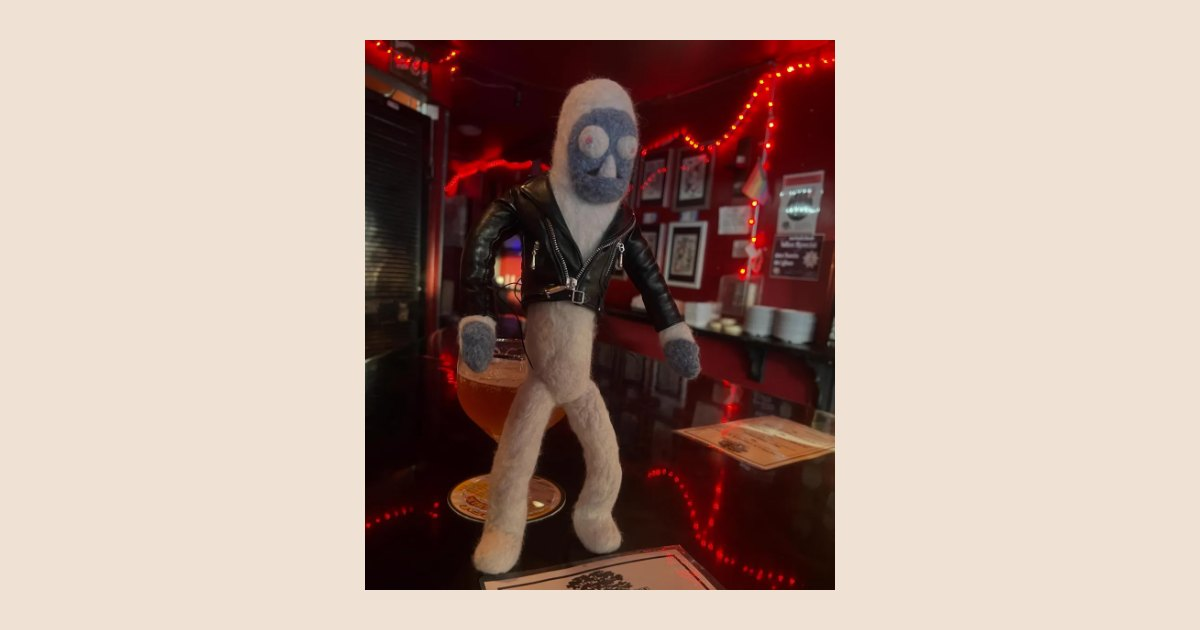
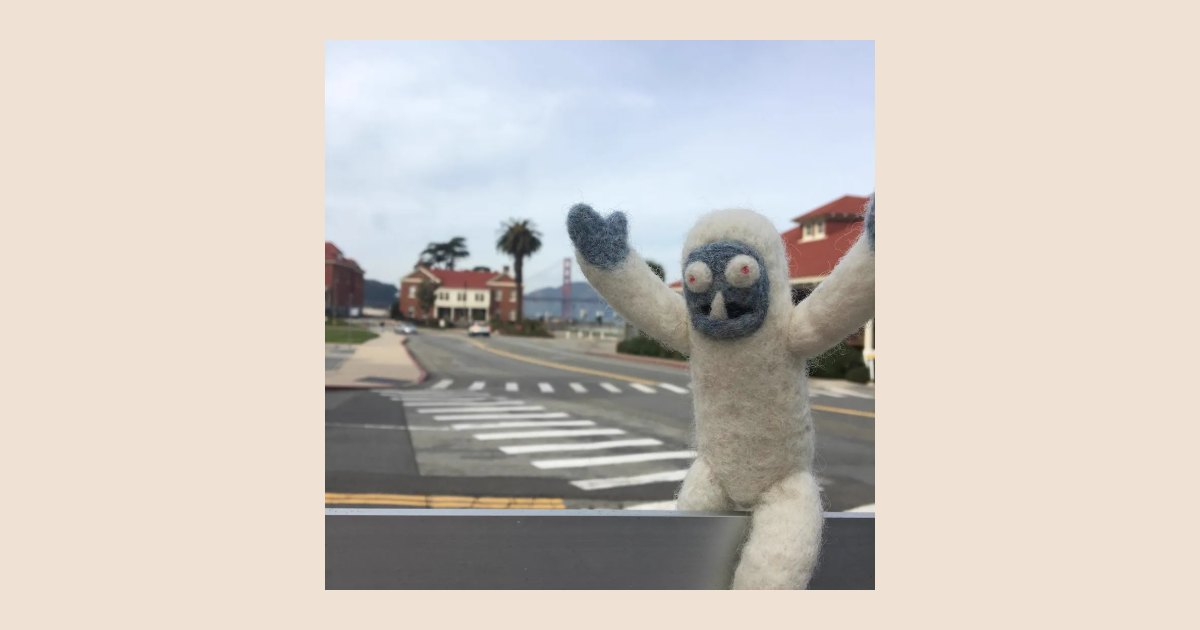
Round 2: Presidio leads Freddi, one WIP image, tattoo photos out, posters credited, Nigel day 3

diff --git a/events.html b/events.html
@@ -104,13 +104,14 @@
 </figure>
 
 <h2 class="section-title">The Artist Showcase</h2>
+<p class="note">I designed a poster for each day.</p>
 <div class="grid g5">
   <figure><button type="button" data-full="img/showcase-poster-1.webp"><img src="img/showcase-poster-1.webp" loading="lazy" alt="Artist Showcase poster: Nychos, graffiti artist and muralist, and Zac Amendolia, tattoo flash and toy design"></button>
     <figcaption>Day 1 · Nychos &amp; Zac Amendolia</figcaption></figure>
   <figure><button type="button" data-full="img/showcase-poster-2.webp"><img src="img/showcase-poster-2.webp" loading="lazy" alt="Artist Showcase poster: Nychos and E Dyer, paintings of city nightscapes and cosmic wonders"></button>
     <figcaption>Day 2 · Nychos &amp; E Dyer</figcaption></figure>
   <figure><button type="button" data-full="img/showcase-poster-3.webp"><img src="img/showcase-poster-3.webp" loading="lazy" alt="Artist Showcase poster: Nigel Sussman, complex isometric illustrations"></button>
-    <figcaption>Nigel Sussman</figcaption></figure>
+    <figcaption>Day 3 · Nigel Sussman</figcaption></figure>
   <figure><button type="button" data-full="img/showcase-poster-4.webp"><img src="img/showcase-poster-4.webp" loading="lazy" alt="Artist Showcase poster: Michael McConnell, narrative animal art"></button>
     <figcaption>Day 4 · Michael McConnell</figcaption></figure>
   <figure><button type="button" data-full="img/showcase-poster-5.webp"><img src="img/showcase-poster-5.webp" loading="lazy" alt="Artist Showcase poster: Zachary Sweet, painting and augmented reality"></button>
@@ -163,9 +164,9 @@
   <h3 class="group-title"><i>Butterflies of the Bay Area</i> book signing, with Liam O’Brien</h3>
   <div class="grid g3 even">
   <figure><button type="button" data-full="img/book-signing-poster.webp"><img class="whole" src="img/book-signing-poster.webp" loading="lazy" alt="Poster: Paxton Gate presents Butterflies of the Bay Area book signing with author and illustrator Liam O'Brien, Saturday October 11th"></button>
-    <figcaption>The poster.</figcaption></figure>
+    <figcaption>The poster I designed.</figcaption></figure>
   <figure><button type="button" data-full="img/book-signing-poster-2.webp"><img class="whole" src="img/book-signing-poster-2.webp" loading="lazy" alt="Social post: join us for a special evening with Liam O'Brien, interview, Q&amp;A and signing"></button>
-    <figcaption>The social post.</figcaption></figure>
+    <figcaption>The social post I designed.</figcaption></figure>
   <figure><button type="button" data-full="img/book-signing.webp"><img src="img/book-signing.webp" loading="lazy" alt="Liam O'Brien signing books at a table surrounded by plants"></button>
     <figcaption>The signing.</figcaption></figure>
   </div>
@@ -175,7 +176,7 @@
   <h3 class="group-title">Community nights · reptiles and live music</h3>
   <div class="grid g3 even">
   <figure><button type="button" data-full="img/creep-poster.webp"><img class="whole" src="img/creep-poster.webp" loading="lazy" alt="Poster: Things That Creep, Reptile Meet &amp; Greet, Friday August 15th, 4 to 6 PM"></button>
-    <figcaption>Things That Creep: the poster.</figcaption></figure>
+    <figcaption>Things That Creep: the poster I designed.</figcaption></figure>
   <figure><button type="button" data-full="img/creep-boa.webp"><img src="img/creep-boa.webp" loading="lazy" alt="A visitor grinning while holding a ball python among the plants"></button>
     <figcaption>Meeting a python.</figcaption></figure>
   <figure><button type="button" data-full="img/creep-meet.webp"><img src="img/creep-meet.webp" loading="lazy" alt="A handler passing a ball python to a smiling visitor"></button>
@@ -185,7 +186,7 @@
   <figure><button type="button" data-full="img/herp-happy-hour.webp"><img src="img/herp-happy-hour.webp" loading="lazy" alt="A man with a snake draped over his shoulders at a crowded evening patio event"></button>
     <figcaption>Herpetology Happy Hour with Mission Science Workshop.</figcaption></figure>
   <figure><button type="button" data-full="img/live-music-poster.webp"><img class="whole" src="img/live-music-poster.webp" loading="lazy" alt="Poster: Performing live at Paxton Gate, Divya Raghavan and Roo Harrigan, Thursday August 14th"></button>
-    <figcaption>Valencia Live! music night: the poster.</figcaption></figure>
+    <figcaption>Valencia Live! music night: the poster I designed.</figcaption></figure>
   </div>
 </div>
 

diff --git a/illustration.html b/illustration.html
@@ -152,12 +152,10 @@
 </div>
 
 <h2 class="group-title">In progress</h2>
-<div class="grid g2 even">
-  <figure><button type="button" data-full="img/wip-emerald-swallowtail.webp"><img src="img/wip-emerald-swallowtail.webp" loading="lazy" alt="An emerald swallowtail illustration in progress on a drawing tablet screen"></button>
-    <figcaption>Coloring the emerald swallowtail.</figcaption></figure>
-  <figure><button type="button" data-full="img/wip-89-butterfly.webp"><img src="img/wip-89-butterfly.webp" loading="lazy" alt="Top and bottom views of an 89 butterfly side by side on screen, in progress"></button>
-    <figcaption>Top and bottom views of an “89” butterfly, side by side.</figcaption></figure>
-</div>
+<figure class="wide-figure plain">
+  <button type="button" data-full="img/wip-89-butterfly.webp"><img src="img/wip-89-butterfly.webp" loading="lazy" alt="Top and bottom views of an 89 butterfly side by side on screen, in progress"></button>
+  <figcaption>Top and bottom views of an “89” butterfly, side by side.</figcaption>
+</figure>
 
 <div class="split wide-left">
   <figure>
@@ -173,17 +171,11 @@
       <li><a href="https://paxtongate.com/products/unisex-bobcat-skull-pocket-tee-by-wren-sayler">Longhorn beetle pocket tee</a></li>
       <li><a href="https://paxtongate.com/products/paxton-gate-tattoos">Morpho &amp; mantis temporary tattoos</a></li>
     </ul>
+    <figure style="margin-top:28px">
+      <button type="button" data-full="img/insect-stickers.webp"><img src="img/insect-stickers.webp" loading="lazy" alt="Two Paxton Gate stickers on a wooden table: a stag beetle with wings open and a hawk moth"></button>
+      <figcaption>Stickers: stag beetle and hawk moth.</figcaption>
+    </figure>
   </div>
-</div>
-<div class="grid g4 even">
-  <figure><button type="button" data-full="img/insect-stickers.webp"><img src="img/insect-stickers.webp" loading="lazy" alt="Two Paxton Gate stickers on a wooden table: a stag beetle with wings open and a hawk moth"></button>
-    <figcaption>Stickers: stag beetle and hawk moth.</figcaption></figure>
-  <figure><button type="button" data-full="img/tattoo-mantis.webp"><img src="img/tattoo-mantis.webp" loading="lazy" alt="A mantis temporary tattoo on a forearm"></button>
-    <figcaption>Mantis temporary tattoo.</figcaption></figure>
-  <figure><button type="button" data-full="img/tattoo-morpho.webp"><img src="img/tattoo-morpho.webp" loading="lazy" alt="A morpho butterfly temporary tattoo on a forearm"></button>
-    <figcaption>Morpho temporary tattoo.</figcaption></figure>
-  <figure><button type="button" data-full="img/tattoo-station.webp"><img src="img/tattoo-station.webp" loading="lazy" alt="Two people outdoors showing insect temporary tattoos on their forearms"></button>
-    <figcaption>From the temporary tattoo station.</figcaption></figure>
 </div>
   </div>
   <nav class="pager" aria-label="More chapters">

diff --git a/freddi.html b/freddi.html
@@ -63,8 +63,8 @@
       <ul class="shows"><li>Character design</li><li>Stop-motion &amp; animation</li><li>Teaching</li></ul>
     </div>
     <figure class="chapter-cover" data-cover="freddi">
-        <img src="img/fy-gar.webp" width="1080" height="1265" alt="Freddi Yeti wearing a tiny black leather jacket, standing on a bar in red light">
-        <figcaption>Some Freddis are known to accessorize.</figcaption>
+        <img src="img/fy-presidio.webp" width="1080" height="1080" alt="Freddi Yeti waving on a railing in the Presidio with the Golden Gate Bridge behind">
+        <figcaption>Freddi at the Presidio.</figcaption>
       </figure>
   </header>
   <div class="chapter-body">
@@ -86,8 +86,8 @@
     <figcaption>Uggy Buggy, up close</figcaption></figure>
   <figure><button type="button" data-full="img/fy-2footfreddi.webp"><img src="img/fy-2footfreddi.webp" loading="lazy" width="960" height="1200" alt="Freddi Yeti, a two-foot-tall white needle-felted yeti with a blue face, standing beside a lit holiday tree"></button>
     <figcaption>Freddi, two feet tall and entirely wool</figcaption></figure>
-  <figure><button type="button" data-full="img/fy-presidio.webp"><img src="img/fy-presidio.webp" loading="lazy" width="1080" height="1080" alt="Freddi Yeti waving on a railing in the Presidio with the Golden Gate Bridge behind"></button>
-    <figcaption>Freddi at the Presidio</figcaption></figure>
+  <figure><button type="button" data-full="img/fy-gar.webp"><img src="img/fy-gar.webp" loading="lazy" width="1080" height="1265" alt="Freddi Yeti wearing a tiny black leather jacket, standing on a bar in red light"></button>
+    <figcaption>Some Freddis are known to accessorize.</figcaption></figure>
   <figure><button type="button" data-full="img/fy-credit-nash-bellows-for-image.webp"><img src="img/fy-credit-nash-bellows-for-image.webp" loading="lazy" width="1169" height="1152" alt="Small white felted yeti posed mid-leap in front of a large blue celestite geode"></button>
     <figcaption>Freddi and a celestite geode · photo: Nash Bellows</figcaption></figure>
   <figure><button type="button" data-full="img/fy-hand-felted-bear-skin-rugs.webp"><img src="img/fy-hand-felted-bear-skin-rugs.webp" loading="lazy" width="1080" height="1080" alt="A tiny felted brown bear-skin rug on a shelf with a handwritten tag: Handmade felted bear skin!"></button>

diff --git a/index.html b/index.html
@@ -137,7 +137,7 @@
         <span class="tile-tag">Motion / Interaction / Prototyping</span>
       </a></li>
       <li><a class="tile" href="freddi.html">
-        <span class="tile-img"><img src="img/fy-gar.webp" data-cover="freddi" loading="lazy" alt=""></span>
+        <span class="tile-img"><img src="img/fy-presidio.webp" data-cover="freddi" loading="lazy" alt=""></span>
         <span class="tile-num">VIII</span>
         <span class="tile-title">Freddi Yeti</span>
         <span class="tile-tag">Character / Physical Making</span>

diff --git a/classes.html b/classes.html
@@ -82,7 +82,7 @@
   <li><b>After</b><span>A follow-up email to close the loop</span></li>
 </ol>
 
-<h2 class="section-title">Posters for the class series</h2>
+<h2 class="section-title">Posters I designed for the class series</h2>
 <div class="grid g4">
   <figure><button type="button" data-full="img/class-poster-cicada.webp"><img src="img/class-poster-cicada.webp" loading="lazy" alt="Insect Pinning Workshop poster, June 14th, Giant Clearwing Cicada"></button>
     <figcaption>Giant clearwing cicada</figcaption></figure>
